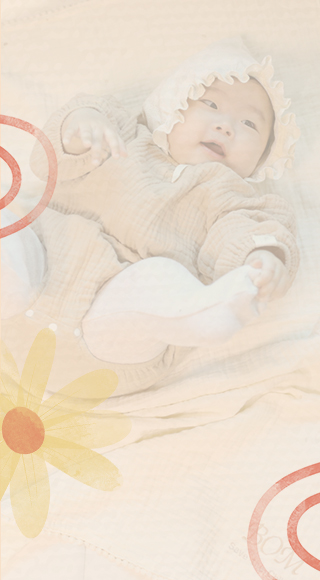
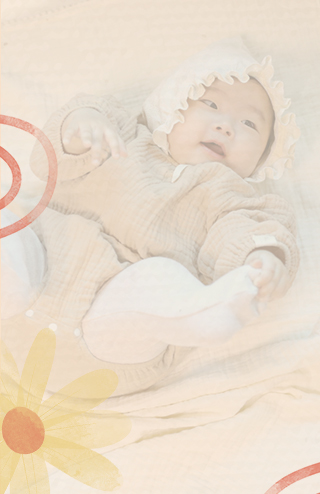
배경이미지 변경

diff --git a/index.html b/index.html
@@ -194,7 +194,7 @@
                 </div>
                 <div class="se_sub_co">
                     보내주신 후원금은<Br> 정치, 종교, 인종에 관계없이<Br> 모든 아이를 구해야 한다는
-                    <Br>세이브더칠드런의 신념에 따라 <Br><span>가장 도움 필요한 아이를 위해 우선 사용</span>됩니다.
+                    <Br>세이브더칠드런의 신념에 따라 <Br><span>가장 도움 필요한 아이를 위해<br> 우선 사용</span>됩니다.
                 </div>
             </div>
 

diff --git a/css/style.css b/css/style.css
@@ -235,9 +235,10 @@
 /* section02 */
 
 .section02{
-    height: 1500px;
+    height: 1250px;
     background: url('../img/back01.jpg') no-repeat;
     background-size: cover;
+    background-position: bottom;
 }
 
 .se02{
@@ -494,13 +495,13 @@ border-radius: 15px;
 
 /* section06 */
 .section06{
-    height:700px;
+    height:550px;
     background: url('../img/back05.jpg') no-repeat;
     background-size: cover;
 }
 
 .se06{
-    padding: 100px 20px;
+    padding: 50px 20px;
     height: 100%;
     box-sizing: border-box;
 }
